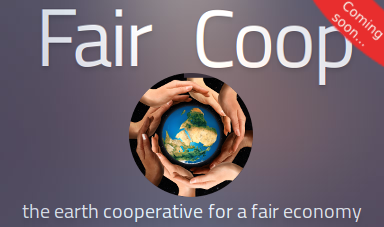
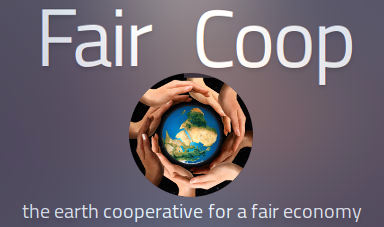
agregando fair.coop y sacando coming soon

Changed region(s): [[0.8125, 0.0, 1.0, 0.3084]]

diff --git a/app/view/layout.php b/app/view/layout.php
@@ -88,7 +88,7 @@
 									<h2>Learn More</h2>
 									<ul class="divided">
 										<li><a href="http://fair-coin.org">Faircoin</a></li>
-										<li><a href="https://bitcointalk.org/index.php?topic=702675.0">Fair Coop</a></li>
+										<li><a href="https://fair.coop">Fair Coop</a></li>
 									</ul>
 								</section>
 						
@@ -112,6 +112,7 @@
 								<section>
 									<h2>Fair Coop Resources</h2>
 									<ul class="divided">
+										<li><a href="https://fair.coop/">Website</a></li>
 										<li><a href="https://bitcointalk.org/index.php?topic=702675.0">Announcement</a></li>
 										<li><a href="https://twitter.com/Fair_Coop">Twitter</a></li>
 										<li><a href="https://www.facebook.com/thefaircoop">Facebook</a></li>

diff --git a/app/view/projects.php b/app/view/projects.php
@@ -18,7 +18,7 @@
 
     <div class="4u">
       <section>
-        <a href="https://bitcointalk.org/index.php?topic=702675.0" target="_blank" class="image featured"><img src="images/faircoop.png" alt="Fair Coop - The Earth Cooperative" /></a>
+        <a href="https://fair.coop/" target="_blank" class="image featured"><img src="images/faircoop.png" alt="Fair Coop - The Earth Cooperative" /></a>
         <header class="second icon fa-group">
           <h3>Fair Coop</h3>
           <p>The earth cooperative</p>
